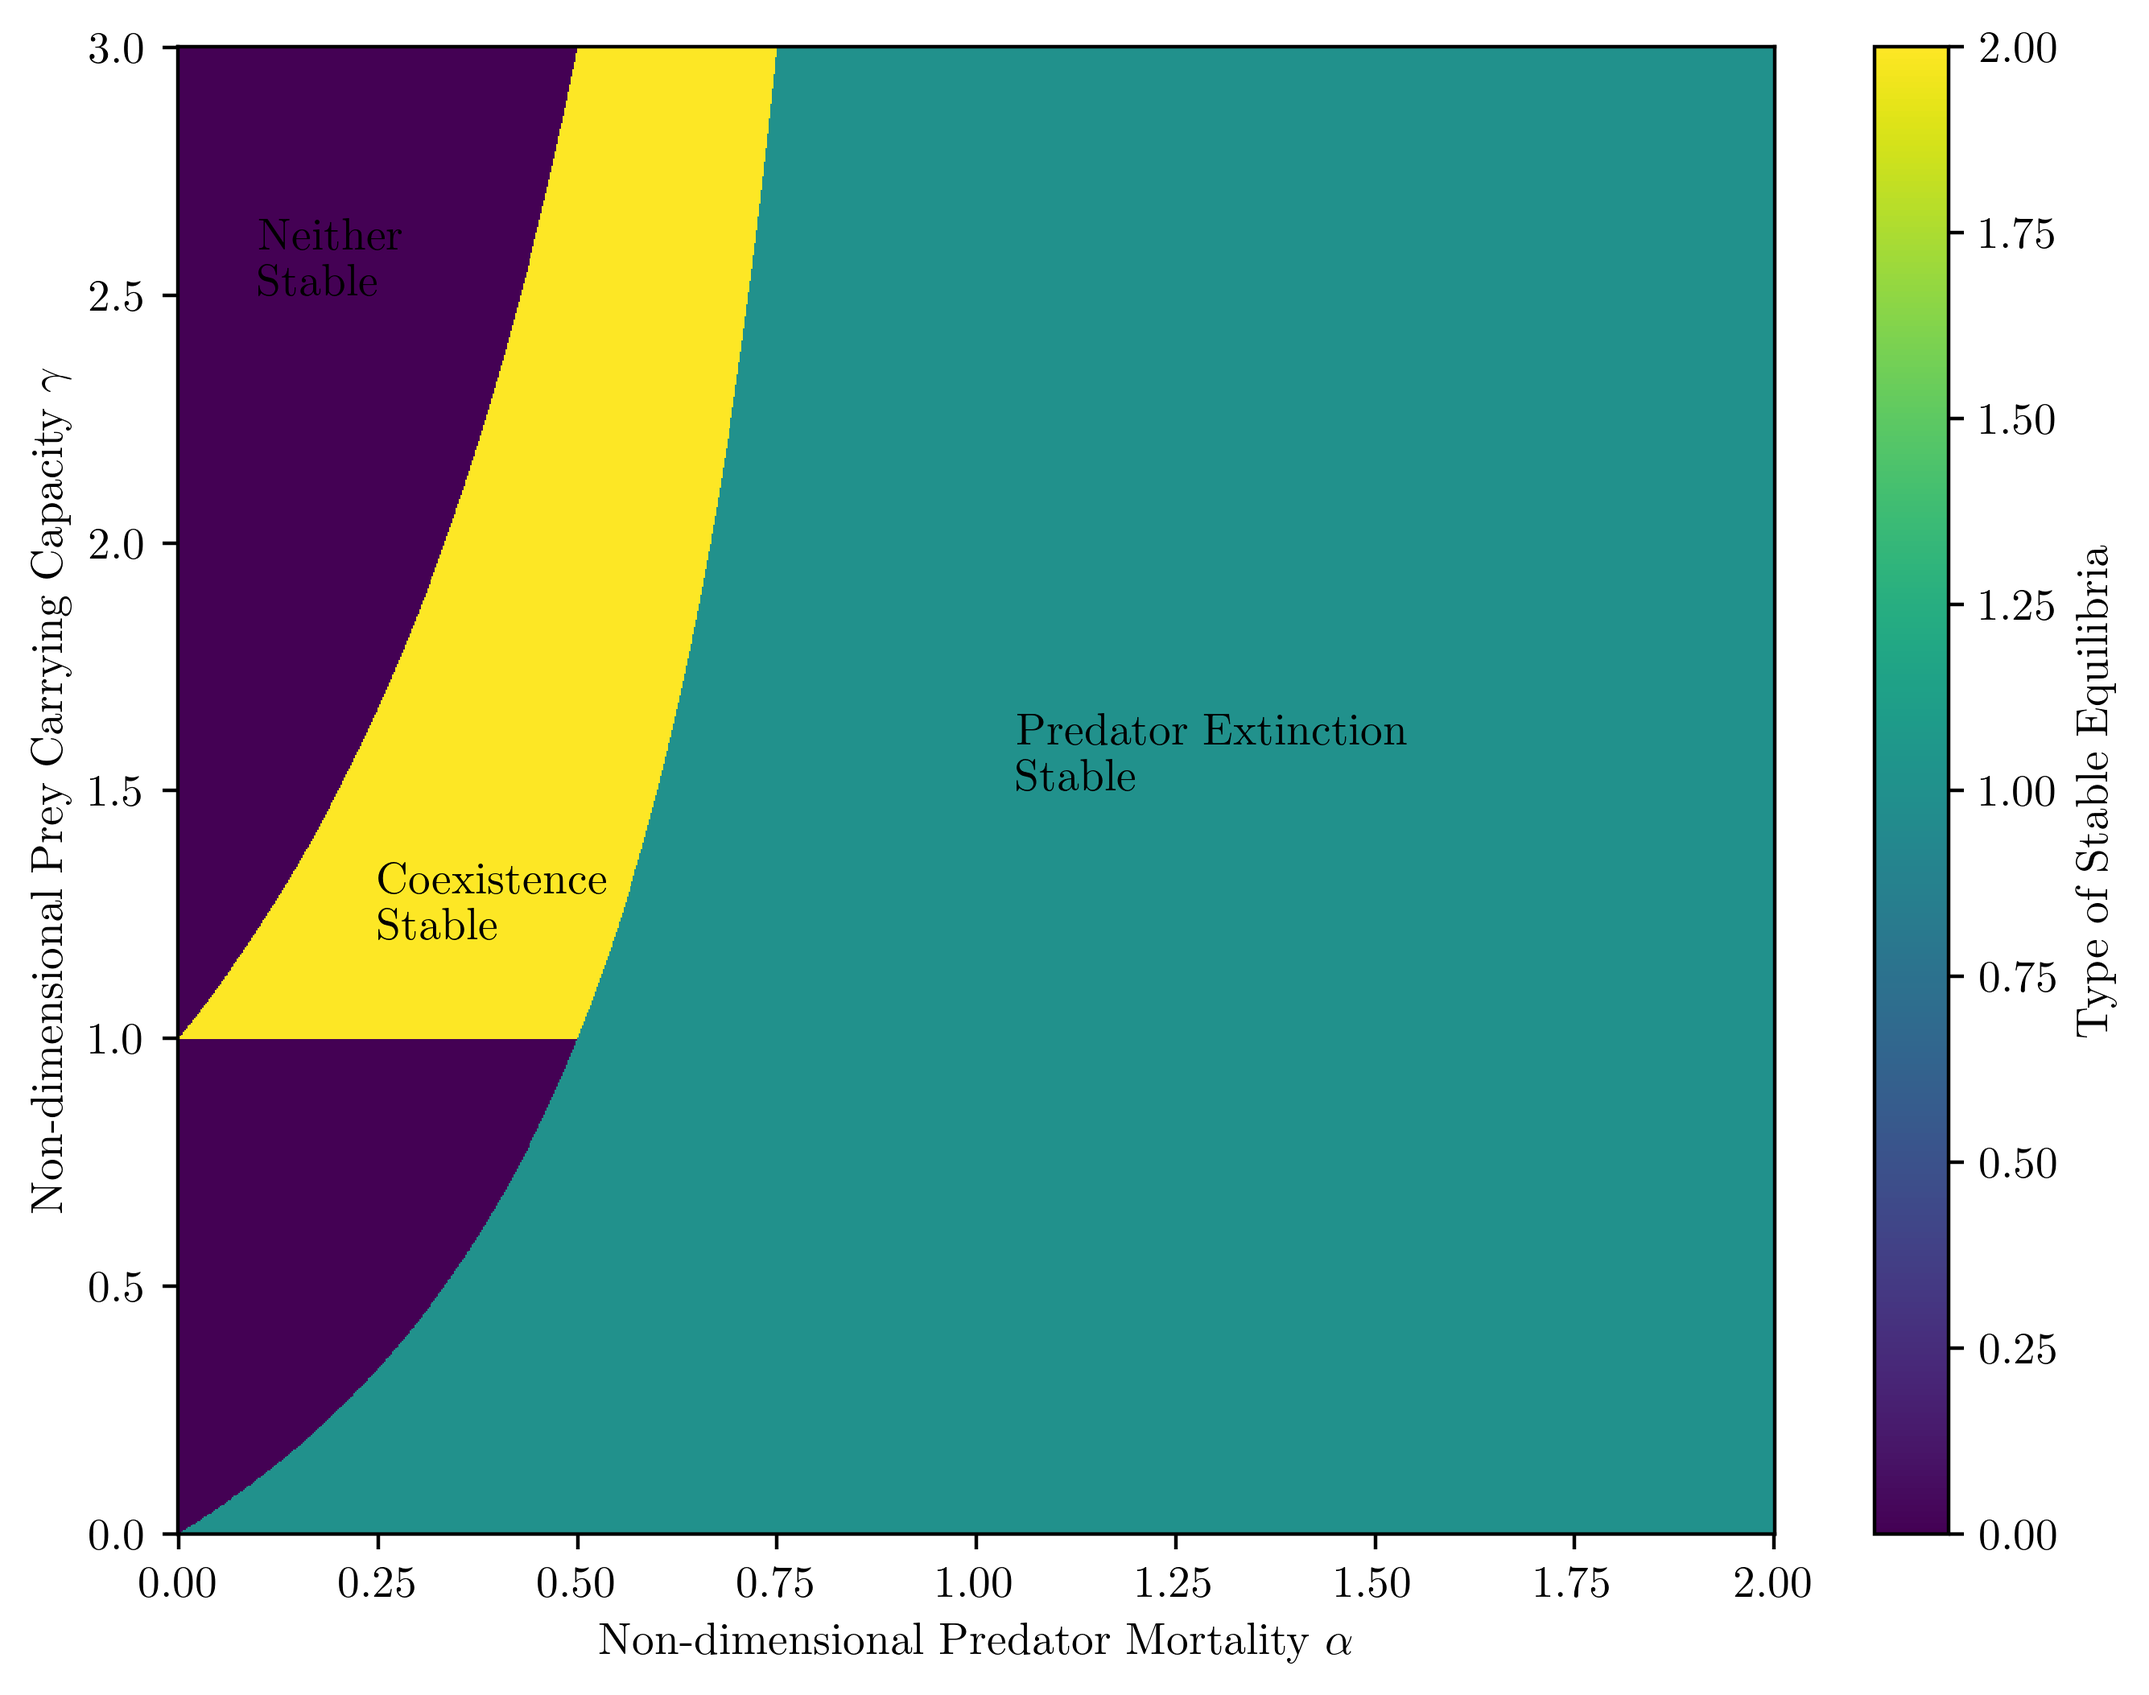
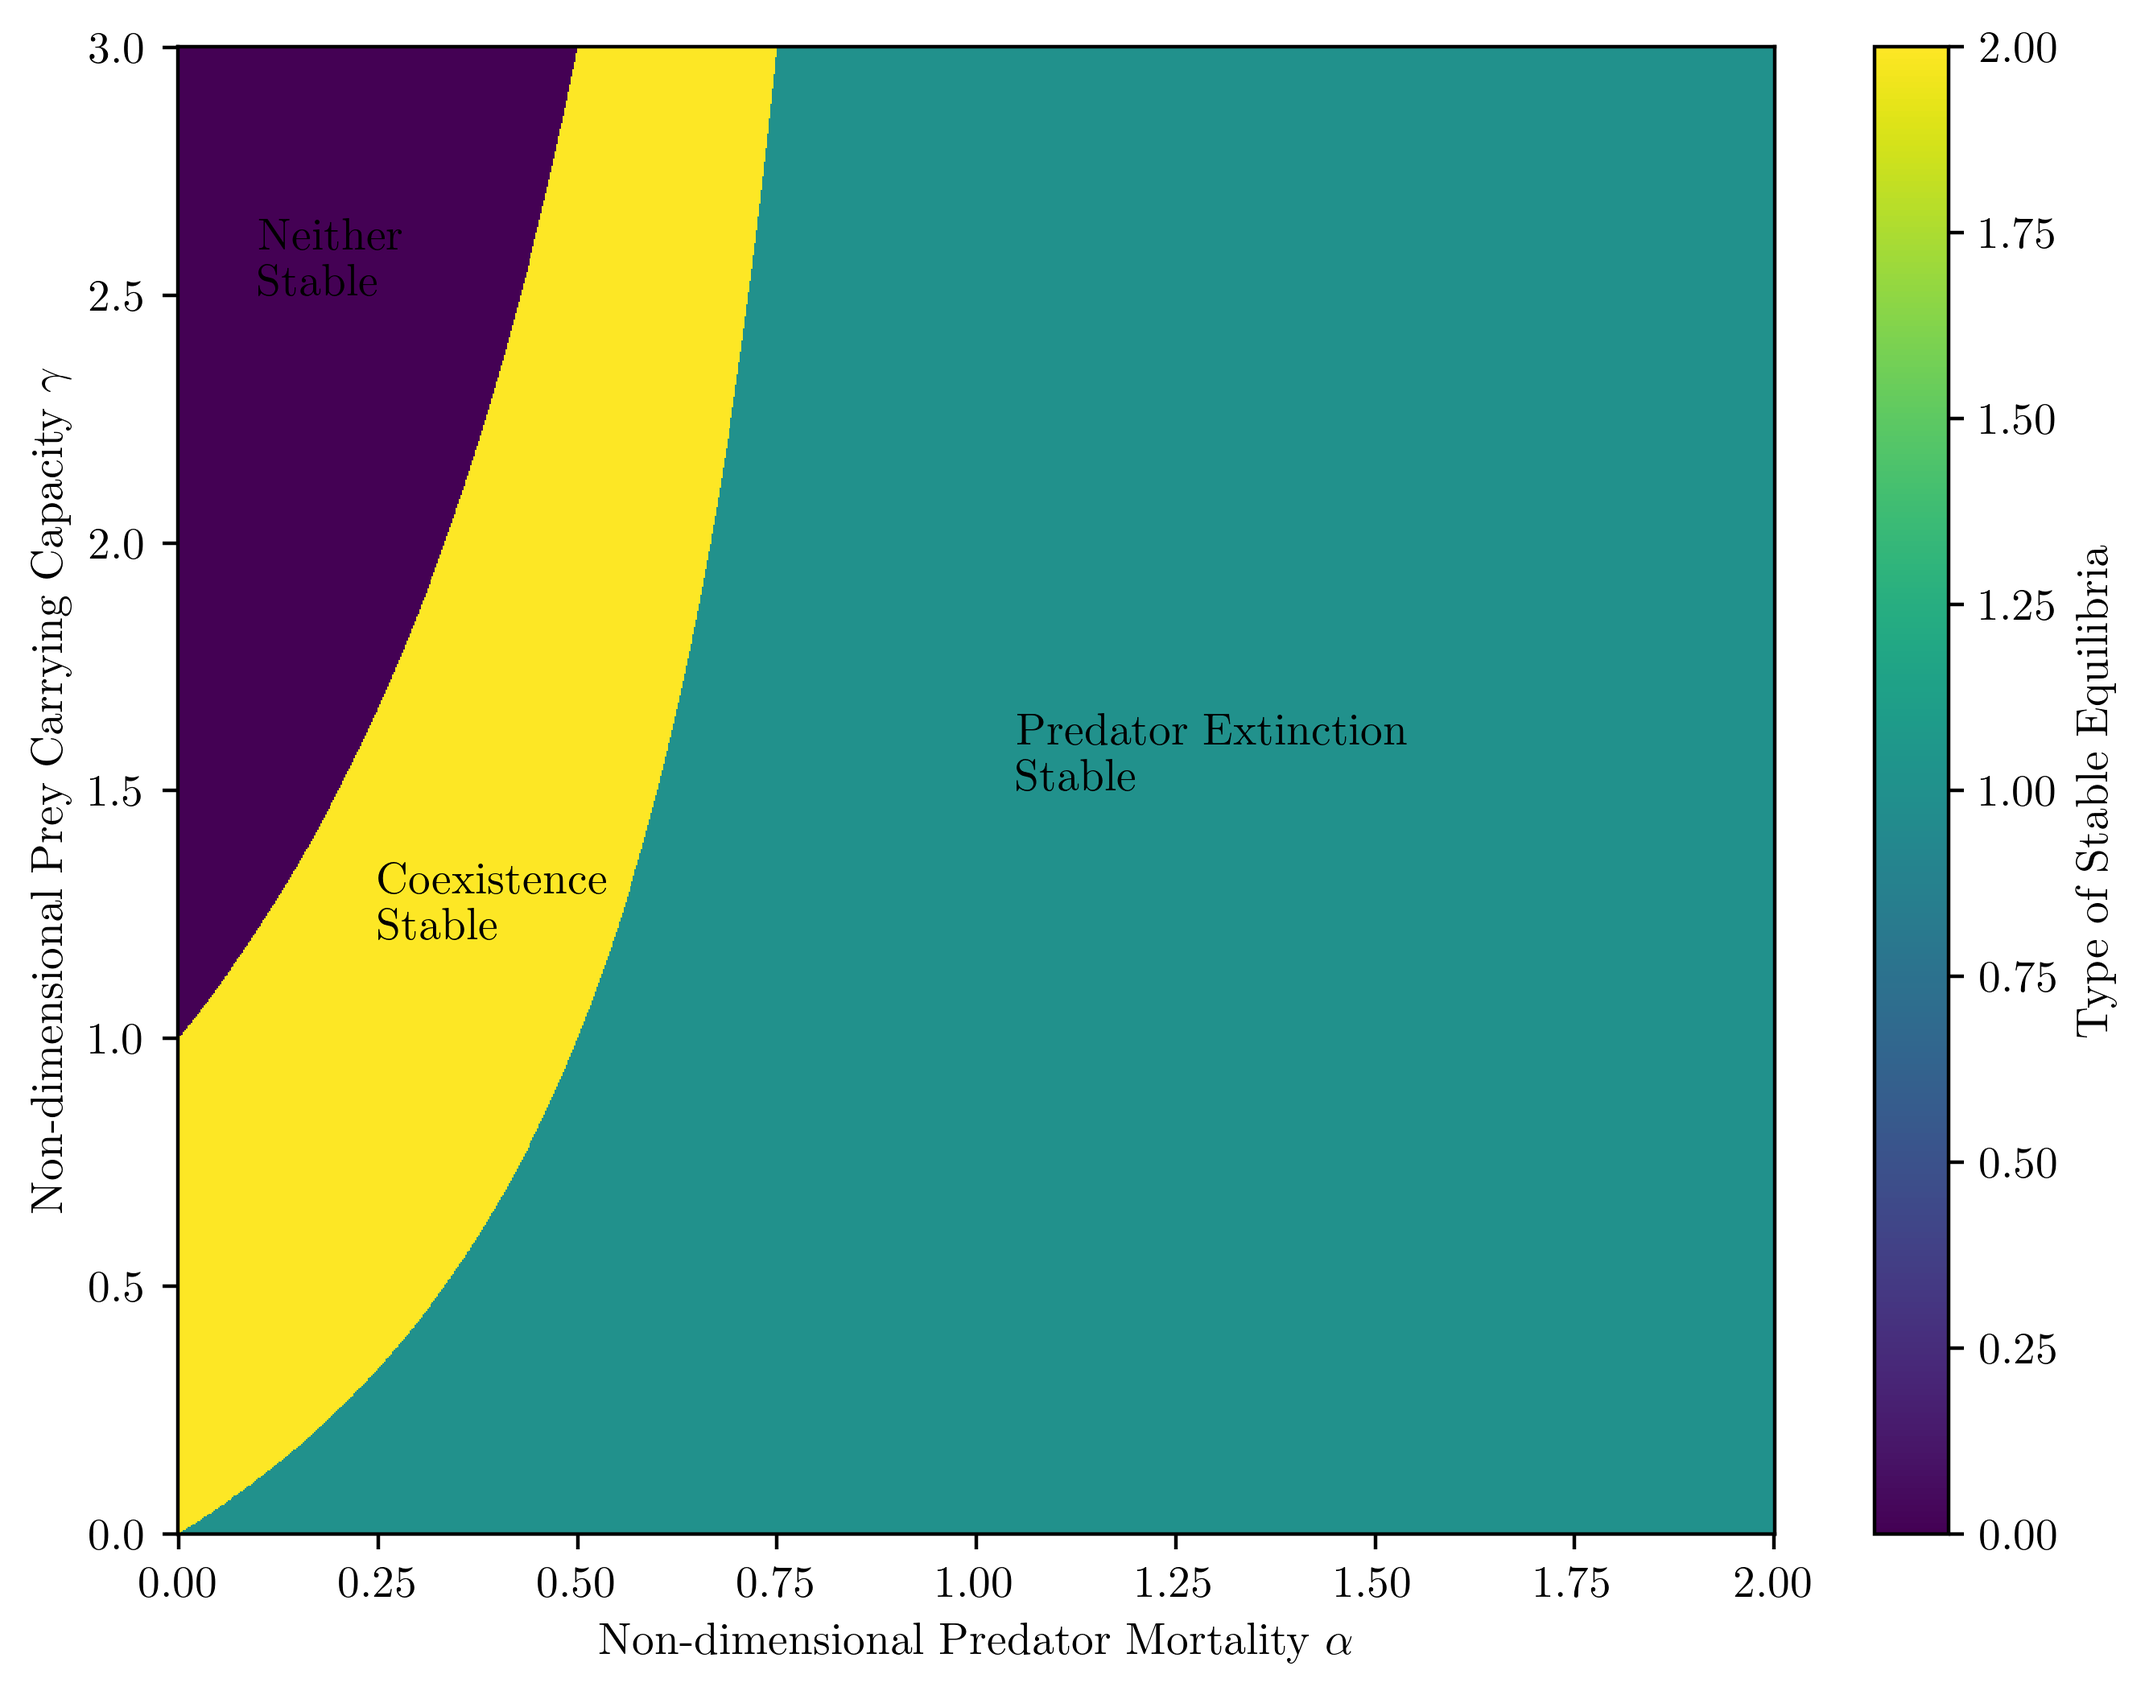
3070 animation

Changed region(s): [[0.0622, 0.5864, 0.2798, 0.8951]]

diff --git a/5th Year/MATH3070/Assignment 2/Animation.py b/5th Year/MATH3070/Assignment 2/Animation.py
@@ -1,0 +1,85 @@
+# -*- coding: utf-8 -*-
+"""
+Created on Wed Sep 13 18:31:50 2023
+
+@author: ryanw
+"""
+
+import numpy as np
+import matplotlib.pyplot as plt
+from scipy.integrate import solve_ivp
+from matplotlib import animation
+
+plt.rcParams.update({"text.usetex": True})
+plt.rcParams['font.family']='serif'
+plt.rcParams['mathtext.fontset']='cm'
+
+fig, ax = plt.subplots(figsize=(9, 5))
+
+def animate(alpha):
+    # define each of our non-dimensionalised predator/prey models
+    def dxdtau(x, y):
+        timestep = x * (1 - x / gamma - y / (1 + x))
+        return timestep
+    def dydtau(x, y):
+        timestep = beta * y * (x / (1 + x) - alpha)
+        return timestep
+    
+    def non_dimen_pred_prey(t, z):
+        # this is a function that interfaces the pred/prey models with the ivp solving function
+        x, y = z
+        return [dxdtau(x, y), dydtau(x, y)]
+    
+    ax.clear()
+    # define our lists of desired initial conditions/colours
+    x0 = [0, 0.1, 0.01, 1]
+    y0 = [1.5, 0, 1, 0.8]
+    colours = ['tab:purple', 'tab:blue', 'tab:red', 'tab:green']
+    
+    # define timespan that we simulate
+    times = np.linspace(0, 120, 10000)
+    # dt = times[1] - times[0]
+    
+    # create figure to plot the behaviour on
+    
+    ax.grid()
+    for i in range(len(x0)):
+        ax.scatter(x0[i], y0[i], marker='x', c=colours[i])  # put a little cross at the starting location
+        
+        sol = solve_ivp(non_dimen_pred_prey, [0, max(times)], [x0[i], y0[i]], dense_output=True)    # solve the ivp for our initial state
+        
+        z = sol.sol(times)  # get the array of solutions for all times
+        prey, preds = z
+        
+        ax.plot(prey, preds, label=f'$(x_0, y_0) = ({x0[i]}, {y0[i]})$', c=colours[i])  # now plot the pred/prey pops for all times
+    
+    # define list of expected equilibria to plot
+    equilibria = [(0, 0), (gamma, 0), (alpha / (1 - alpha), (gamma - alpha / (1 - alpha)) / ((1 - alpha) * gamma))]
+    for i, equilibrium in enumerate(equilibria):
+        x, y = equilibrium  # lets plot the location of each equilibrium
+        label = 'Equilibrium' if i == 0 else None
+        ax.scatter(x, y, marker='o', c='k', label=label)
+    ax.set_ylabel("Non-Dimensionalised Predator Population, $y$")
+    ax.set_xlabel("Non-Dimensionalised Prey Population, $x$")
+    ax.legend()
+    ax.set_xlim(-0.1, 2.1)
+    ax.set_ylim(-0.08, 2)
+    ax.set_title(fr"$\alpha = {round(alpha, 3)}$, $\gamma = {gamma}$")
+    
+    print(np.argwhere(alphas == alpha).flatten()[0], "/", len(alphas))
+    return fig,
+
+# define some nice non-dimensionalised constants
+alphas = np.linspace(0, 1.05, 200)
+gamma = 2
+beta = 1
+
+ani = animation.FuncAnimation(fig, animate, frames=alphas, cache_frame_data=False, blit=True)
+ani.save(f"animation.gif", writer='pillow', fps=15, dpi=400)
+plt.close('all')
+
+
+
+
+
+

diff --git a/5th Year/MATH3070/Assignment 2/Q1.py b/5th Year/MATH3070/Assignment 2/Q1.py
@@ -17,7 +17,7 @@ plt.rcParams['mathtext.fontset']='cm'
 # in this section we want to plot a phase portrait showing the 3 qualitative behaviours of the predator-prey model for some parameters
 
 # define some nice non-dimensionalised constants
-alpha = 0.3
+alpha = 0.4
 gamma = 2
 beta = 1
 
@@ -81,11 +81,11 @@ agam_mesh = np.zeros((len(a_vals), len(gammas)))    # initialise a matrix to sto
 for i, a in enumerate(a_vals):
     for j, gam in enumerate(gammas):
         if (a > gam / (1 + gam)):   # pred extinct stable
-            if (gam < 1 + 2 * a / (1 - a)) and (a < 1 / (1 - 1/gam)) and (gam > a / (1 - a)):     # both stable
+            if (gam < 1 + 2 * a / (1 - a)) and (gam > a / (1 - a)):     # both stable
                 agam_mesh[i, j] = 3
             else:   # only predator extinct is stable
                 agam_mesh[i, j] = 1 
-        elif (gam < 1 + 2 * a / (1 - a)) and (a < 1 / (1 - 1/gam)) and (gam > a / (1 - a)):   # only coexistence stable
+        elif (gam < 1 + 2 * a / (1 - a)) and (gam > a / (1 - a)):   # only coexistence stable
             agam_mesh[i, j] = 2
         else:   # neither of them are stable
             agam_mesh[i, j] = 0
